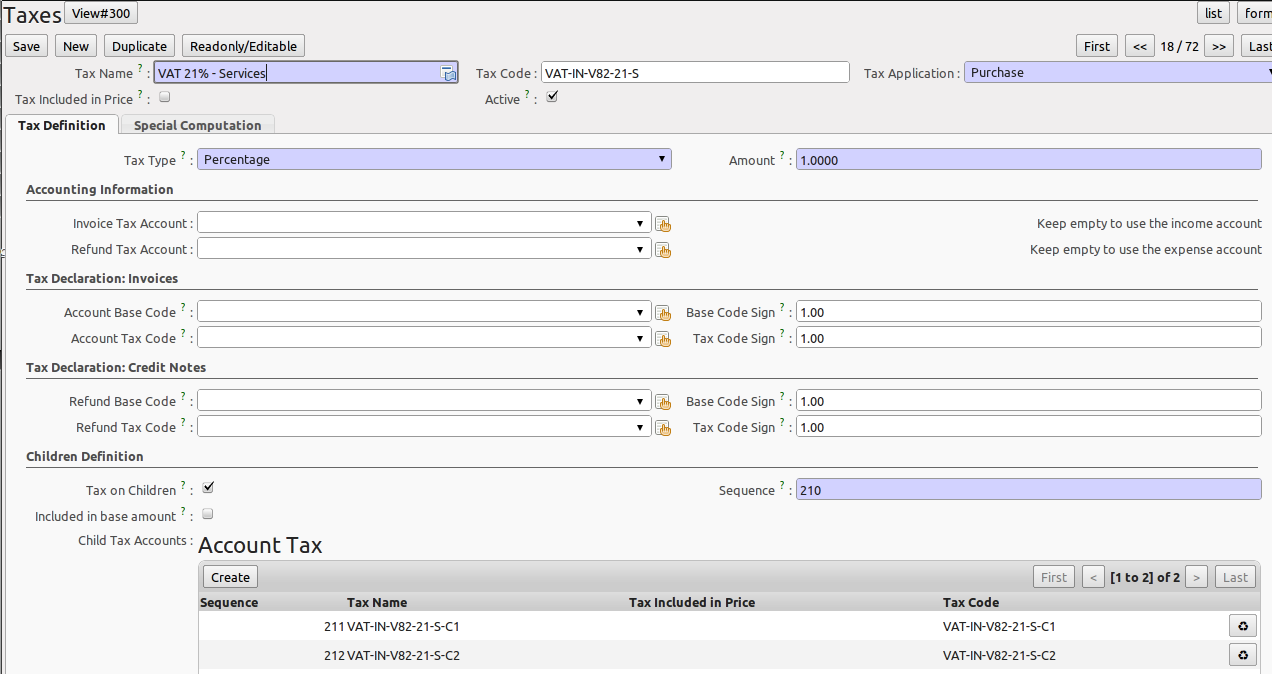
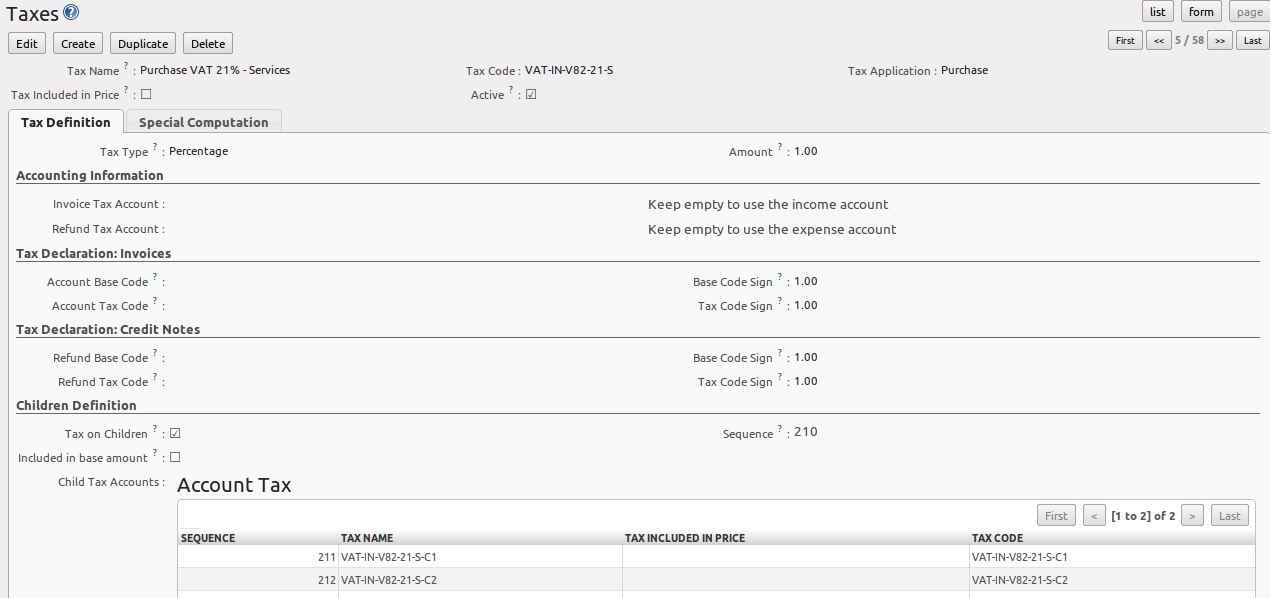
reviewed taxes and updated image

Changed region(s): [[0.0, 0.0, 1.0, 1.0], [0.6756, 0.0, 1.0, 0.1505]]

diff --git a/3/3_9/tax_structure.rst b/3/3_9/tax_structure.rst
@@ -10,7 +10,7 @@ This section deals with statutory taxes and accounts which are legally required 
 
 .. index:: tax
 
-You can attach taxes to financial transactions so that you can:
+You can attach taxes to transactions so that you can:
 
 * add taxes to the amount you pay or receive,
 
@@ -20,26 +20,24 @@ You can attach taxes to financial transactions so that you can:
 
 * manage the payment and refund of taxes using the same mechanisms OpenERP uses for other monetary transactions.
 
-Since the detailed tax structure is a mechanism for carrying out governments' policies, and the collection of taxes so critical to their authorities, tax requirements and reporting can be complex. OpenERP has a flexible mechanism for handling taxation that can be configured to meet the requirements of many various tax jurisdictions.
+Since the detailed tax structure is a mechanism for carrying out governments' policies, and the collection of taxes so critical to their authorities, tax requirements and reporting can be complex. OpenERP has a flexible mechanism for handling taxation that can be configured to meet the requirements of many tax jurisdictions.
 
 The taxation mechanism can also be used to handle other tax-like financial transactions, such as royalties to authors based on the value of transactions through an account.
 
 From the menu :menuselection:`Accounting --> Configuration --> Financial Accounting --> Taxes` you can define your tax structure. Note that when you use a predefined (localised) chart of accounts, taxes will be configured as well in most cases.
 
-Three main objects are involved in the tax system in Open ERP:
+OpenERP's tax system runs around three major concepts:
 
-* :guilabel:`Tax Case` (or :guilabel:`Tax Code`), used for tax reporting, that can be set up in a hierarchical
-  structure so that multiple codes can be formed into trees in the same way as a Chart of Accounts. The Tax Codes structure is used to define your VAT return. You can define tax codes from the menu :menuselection: `Accounting --> Configuration --> Financial Accounting --> Taxes --> Tax Codes`.
+* :guilabel:`Tax Code` (or :guilabel:`Tax Case`), used for tax reporting, can be set up in a hierarchical
+  structure so that multiple codes can be formed into trees in the same way as a ``Chart of Accounts``. The Tax Codes structure is used to define your VAT return; it can be numeric and alphanumeric. You can define tax codes from the menu :menuselection: `Accounting --> Configuration --> Financial Accounting --> Taxes --> Tax Codes`.
 
-* :guilabel:`Taxes`, the basic tax object that contains the rules for calculating tax on the transaction it is attached to, linked to the General Accounts and to the Tax Codes. A tax can contain multiple child taxes and base its calculation on those taxes rather than the base transaction, providing considerable flexibility.
+* :guilabel:`Taxes`, the basic tax object that contains the rules for calculating tax on the transaction it is attached to, linked to the General Accounts and to the Tax Codes. A tax can contain multiple child taxes and base its calculation on those taxes rather than on the base transaction, providing considerable flexibility.
 
 * the :guilabel:`General Accounts`, which record the taxes owing and paid. Since the general accounts are discussed elsewhere in this part of the book and are not tax-specific, they will not be detailed in this section.
 
-You can attach zero or more :guilabel:`Supplier Tax` and :guilabel:`Customer Tax` items to products, so that you can account separately for purchase and sales taxes (or Input and Output VAT – where VAT is Value Added Tax). Because you can attach more than one tax, you can handle a VAT or Sales Tax separately from an Eco Tax on the same product.
+You can attach zero or more :guilabel:`Purchase Taxes` and :guilabel:`Sale Taxes` items to products, so that you can account separately for purchase and sales taxes (or Input and Output VAT – where VAT is Value Added Tax). Because you can attach more than one tax, you can handle a VAT or Sales Tax separately from an Eco Tax on the same product.
 
-Tax Cases are also known in OpenERP as Tax Codes. They are used for tax reporting, and can be set up in a hierarchical structure to form trees in the same way as a Chart of Accounts.
-
-To create a new Tax Code, use the menu :menuselection:`Accounting --> Configuration --> Financial Accounting --> Taxes --> Tax Codes`. You should define the following fields:
+To create a new :guilabel:`Tax Code`, use the menu :menuselection:`Accounting --> Configuration --> Financial Accounting --> Taxes --> Tax Codes`. You should define the following fields:
 
 .. figure::  images/account_def_tax_code_form.png
    :scale: 75
@@ -51,7 +49,7 @@ To create a new Tax Code, use the menu :menuselection:`Accounting --> Configurat
 
 *  :guilabel:`Case Code`: an optional short code for the case,
 
-*  :guilabel:`Parent Code`: a link to a parent Tax Case to create a tree structure (like a Chart of Accounts),
+*  :guilabel:`Parent Code`: a link to a parent Tax Code to create a tree structure which can be displayed from the menu :menuselection:`Accounting --> Charts --> Cgart of Taxes`,
 
 *  :guilabel:`Not Printable in Invoice`: a checkbox allowing you to indicate that any taxes linked to the tax code concerned should not be printed on the invoice,
 
@@ -61,17 +59,16 @@ To create a new Tax Code, use the menu :menuselection:`Accounting --> Configurat
 
 You can also see two read-only fields:
 
-*  :guilabel:`Period Sum`: a single figure showing the total accumulated on this case for the
-   current financial period.
+*  :guilabel:`Period Sum`: a single figure showing the total accumulated on this case for the current financial period.
 
 *  :guilabel:`Year Sum`: a single figure showing the total accumulated on this case for the financial year.
 
-You will probably need to create two tax cases for each different tax rate that you have to define, one for the tax itself and one for the invoice amount that the tax is based on. And you will create tax cases that you will not link to Tax objects (similar to General Account \ ``View``\   types) just to organize the tree structure.
+You will probably need to create two tax codes for each different tax rate that you have to define, one for the tax itself and one for the invoice amount (the so-called base code) the tax is computed from. And you will create tax codes that you will not link to any tax objects (similar to General Account \ ``View``\   types) just to organise the tree (or hierarchical) structure.
 
-To view the structure that you have constructed, you can use the menu :menuselection:`Accounting --> Charts --> Chart of Taxes`.
-This tree view reflects the structure of the :guilabel:`Tax Codes` and shows the current tax situation.
+To have a look at the structure you have constructed, you can use the menu :menuselection:`Accounting --> Charts --> Chart of Taxes`.
+This tree view reflects the structure of the :guilabel:`Tax Codes` and shows the current tax situation for the selected period, or for the complete financial year.
 
-Tax objects calculate tax on the transactions that they are attached to, and are linked to the General Accounts and to the Tax Codes.
+The :guilabel:`Taxes` defined are used to compute taxes on the transactions they are attached to, and they are linked to the corresponding General Accounts (usually VAT accounts) and to Tax Codes, both for the base amount and the tax amount.
 
 To create a new Tax, use the menu :menuselection:`Accounting --> Configuration --> Financial Accounting --> Taxes --> Taxes`.
 
@@ -83,11 +80,11 @@ To create a new Tax, use the menu :menuselection:`Accounting --> Configuration -
 
 You define the following fields:
 
-*  :guilabel:`Tax Name`: a unique name required for this tax (such as \ ``21% Sales VAT``\  ),
+*  :guilabel:`Tax Name`: a unique name required for this tax (such as \ ``21% Purchase VAT``\  ),
 
 *  :guilabel:`Tax Code`: an optional code for this tax (such as \ ``VAT IN IC``\  ),
 
-*  :guilabel:`Tax Application`: defines whether the tax is applicable to ``Sales``, ``Purchase`` or ``All`` transactions,
+*  :guilabel:`Tax Application`: defines whether the tax is applicable to ``Sale``, ``Purchase`` or ``All`` transactions,
 
 *  :guilabel:`Tax Included in Price`: when checked, the price shown in the product or invoice is inclusive of this tax,
 
@@ -95,15 +92,10 @@ You define the following fields:
    ``Fixed Amount``, ``None``, ``Balance`` or ``Python Code``, (the latter is found in the :guilabel:`Compute Code`
    field in the :guilabel:`Special Computation` tab),
 
-.. In that case, you also have to set the following field:
-.. *  :guilabel:`Applicability` : a required field that indicates whether the base amount should be used unchanged (when the value is
-.. \``Always``\  ) or whether it should be processed by Python Code in the :guilabel:`Applicable Code` field in the :guilabel:`Special
-.. Computation` tab when the value is \ ``Given by Python Code``\  ),
-
 *  :guilabel:`Amount`: a required field whose meaning depends on the Tax Type, being a multiplier of the base amount when the :guilabel:`Tax
-   Type` is \ ``Percentage``\  , and a fixed amount added to the base amount when the :guilabel:`Tax Type` is \ ``Fixed Amount``\  ,
+   Type` is \ ``Percentage``\ and a fixed amount added to the base amount when the :guilabel:`Tax Type` is \ ``Fixed Amount``\,
 
-*  :guilabel:`Invoice Tax Account`: a General Account used to record invoiced tax amounts, which may be the same for several taxes or split so that one tax is allocated to one account,
+*  :guilabel:`Invoice Tax Account`: a General Account used to record invoiced tax amounts, which may be the same for several taxes or split according to percentage so that one tax is allocated to one account,
 
 *  :guilabel:`Refund Tax Account`: a General Account used to record invoiced tax refunds, which may be the same as the Invoice Tax Account or, in some tax jurisdictions, has to be separated,
 
@@ -111,25 +103,23 @@ You define the following fields:
 
 *  :guilabel:`Include in base amount`: when checked, the tax is added to the base amount and not shown separately, such as Eco taxes,
 
-*  :guilabel:`Child Tax Accounts`: other tax accounts that can be used to supply the figure for taxation.
+*  :guilabel:`Child Tax Accounts`: other taxes that can be used to supply the figure for taxation.
 
 .. tip:: Using Child Taxes
 
     You can use child taxes when you have a complex tax situation requiring several tax codes to be used.
 
-The fields above apply the taxes that you specify and record them in the general accounts, but do not
-provide you with the documentation that your tax authorities might need. For this, use the :guilabel:`Tax
-Definition` tab to define which Tax Cases should be used for this tax:
+The fields above apply the taxes that you specify and record them in the general accounts, but do not provide you with the information that your tax authorities might need. Use the :guilabel:`Tax Definition` tab, parts Tax Declaration: Invoices and Credit Notes to define to which tax codes the tax should be assigned:
 
-*  :guilabel:`Account Base Code`: tax case to record the invoiced amount (exclusive of taxes) the tax is calculated on,
+*  :guilabel:`Account Base Code`: tax code to record the invoiced amount (exclusive of taxes) the tax is calculated on,
 
-*  :guilabel:`Account Tax Code` : tax case to record the calculated tax amount,
+*  :guilabel:`Account Tax Code`: tax code to record the calculated tax amount,
 
-*  :guilabel:`Refund Base Code` : tax case to record the refund amount (exclusive of taxes) the tax is calculated on,
+*  :guilabel:`Refund Base Code`: tax code to record the refund amount (exclusive of taxes) the tax is calculated on,
 
-*  :guilabel:`Refund Tax Code` : tax case to record the refund tax amount.
+*  :guilabel:`Refund Tax Code`: tax code to record the refund tax amount.
 
-When you have created a tax structure consisting of Tax Cases and Tax objects, you can use the taxes in your various business objects so that transactions can be associated with taxes and tax-like charges, such as Eco Taxes (Recupel and Bebat, for instance).
+When you have created a tax structure consisting of taxe codes and taxes, you can use the taxes in your various business objects so that transactions can be associated with taxes and tax-like charges, such as Eco Taxes (Recupel and Bebat, for instance).
 
 .. tip:: Retail Customers
 
@@ -137,7 +127,7 @@ When you have created a tax structure consisting of Tax Cases and Tax objects, y
     you may want to (or be required to) show tax-inclusive prices on your invoicing documents rather
     than a tax-exclusive price plus tax.
 
-You can assign multiple taxes to a Product. Assuming you have set up the appropriate taxes, you would use the menu :menuselection:`Sales --> Products --> Products` to open and edit a Product definition, then:
+You can assign multiple taxes to a Product. Assuming you have set up the appropriate taxes, you would use the menu :menuselection:`Sales --> Products --> Products` to open and edit a :guilabel:`Product` definition, then:
 
 * select one or more :guilabel:`Sale Taxes` for any products that you might sell, which may
   include a \ ``Sales Tax``\   or \ ``Output VAT``\  and a \ ``Sales Eco Tax``\  ,
@@ -151,8 +141,8 @@ You can also assign multiple taxes to an account, so that when you transfer mone
 
 .. index:: fiscal position
 
-Taxes on Products and Accounts will usually be national taxes. OpenERP is capable of automatically converting national taxes to intracommunal or export taxes.
+Taxes on Products and Accounts will usually be national taxes. OpenERP is capable of automatically converting national taxes to intracommunal or export taxes through the concept of ``Fiscal Positions``.
 
-Go to the menu :menuselection:`Accounting --> Configuration -_> Financial Accounting --> Taxes --> Fiscal Positions`. You can use the fiscal positions to automatically convert national taxes to the required intracommunal or external taxes, according to the fiscal position specified for the customer or supplier.
+Go to the menu :menuselection:`Accounting --> Configuration -_> Financial Accounting --> Taxes --> Fiscal Positions`. You can use the fiscal positions to automatically convert national taxes to the required intracommunal or export taxes, according to the fiscal position specified for the customer or supplier.
 
-Fiscal positions allow you to make a mapping from national taxes to intracommunal or external taxes, or to map your accounts according to these criteria. You can link fiscal positions to your customers and suppliers to ensure automatic and easy VAT conversion.
+Fiscal positions allow you to make a mapping from national taxes to intracommunal or export taxes, or to map your accounts according to these criteria. You can link fiscal positions to your customers and suppliers to ensure automatic and easy VAT conversion when posting entries.
